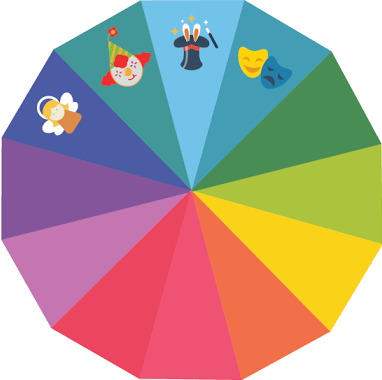
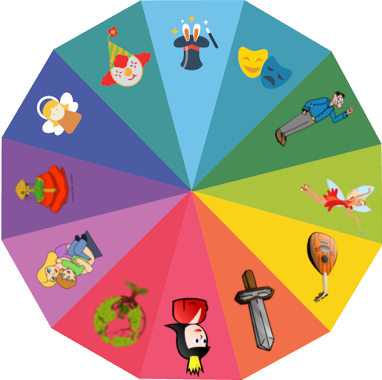
updated spinwheel.png

diff --git a/spinWidget/spinWidget.js b/spinWidget/spinWidget.js
@@ -26,13 +26,14 @@
  * as those provided in the first parameter to this object (noOfSegs) or you will get
  * some funky answers.
  */
-function spinWidget(noOfSegs, resultSelector, imgSelector, imgURL)
+function spinWidget(noOfSegs, resultSelector, imgSelector, imgURL, personaArray)
 {
 	/******************************* PRIVATE VARS ********************************/
 	var noOfSegments = noOfSegs;
 	var resultTag = resultSelector;
 	var imageSelector = imgSelector;
 	var url = imgURL;
+	var personas = personaArray;
 	/***************************** ENDOF PRIVATE VARS ****************************/
 	
 	/******************************** MAIN METHOD ********************************/
@@ -109,15 +110,15 @@ function spinWidget(noOfSegs, resultSelector, imgSelector, imgURL)
 	{
 		var extraDegrees = (angle % 360);
 		var degPerSeg = 360/noOfSegments;
-		var resultSegment = ((extraDegrees/degPerSeg)+1);		
+		var resultSegment = ((extraDegrees/degPerSeg));		
 		var resultText = "you "+randomOrSelect+" persona ";
 	
 		if(Math.abs(speed)<1)
 		{
-			if(Math.round(resultSegment)==13)
-				{updateResultsSegment(resultText + 1);}
-			else
-				{ updateResultsSegment(resultText + Math.round(resultSegment));}
+		    if(Math.round(resultSegment)>=0)
+		   {updateResultsSegment(Math.round(resultSegment));}
+		   else
+		   {updateResultsSegment(Math.round(resultSegment+12));}
 		}
 	} 
 	
@@ -131,7 +132,7 @@ function spinWidget(noOfSegs, resultSelector, imgSelector, imgURL)
 		{	
 			$(resultTag).fadeOut(500,function()
 			{
-				$(resultTag).val(results);
+				$(resultTag).val(personas[results]);
 			});
 			$(resultTag).fadeIn(500);
 		});

diff --git a/spinWidget/header.php b/spinWidget/header.php
@@ -17,7 +17,11 @@
 <!--spinWidget definition-->
 <script src="spinWidget.js"></script>
 <!--spinWidget instantiation-->
-<script>spinWidget = new spinWidget(12, ".result", ".wheel", "spinWheel.png");</script>
+<script>
+var personaArray = ["Magician","Jester","Angel","Sage","Matriarch","Mother Earth",
+                    "Queen","Warrior","Troubadour","Enchantress","Patriarch","Actor"];
+spinWidget = new spinWidget(12, ".result", ".wheel", "spinWheel.png", personaArray);
+</script>
 <!--ENDOF SPINWIDGET-->
 
 
